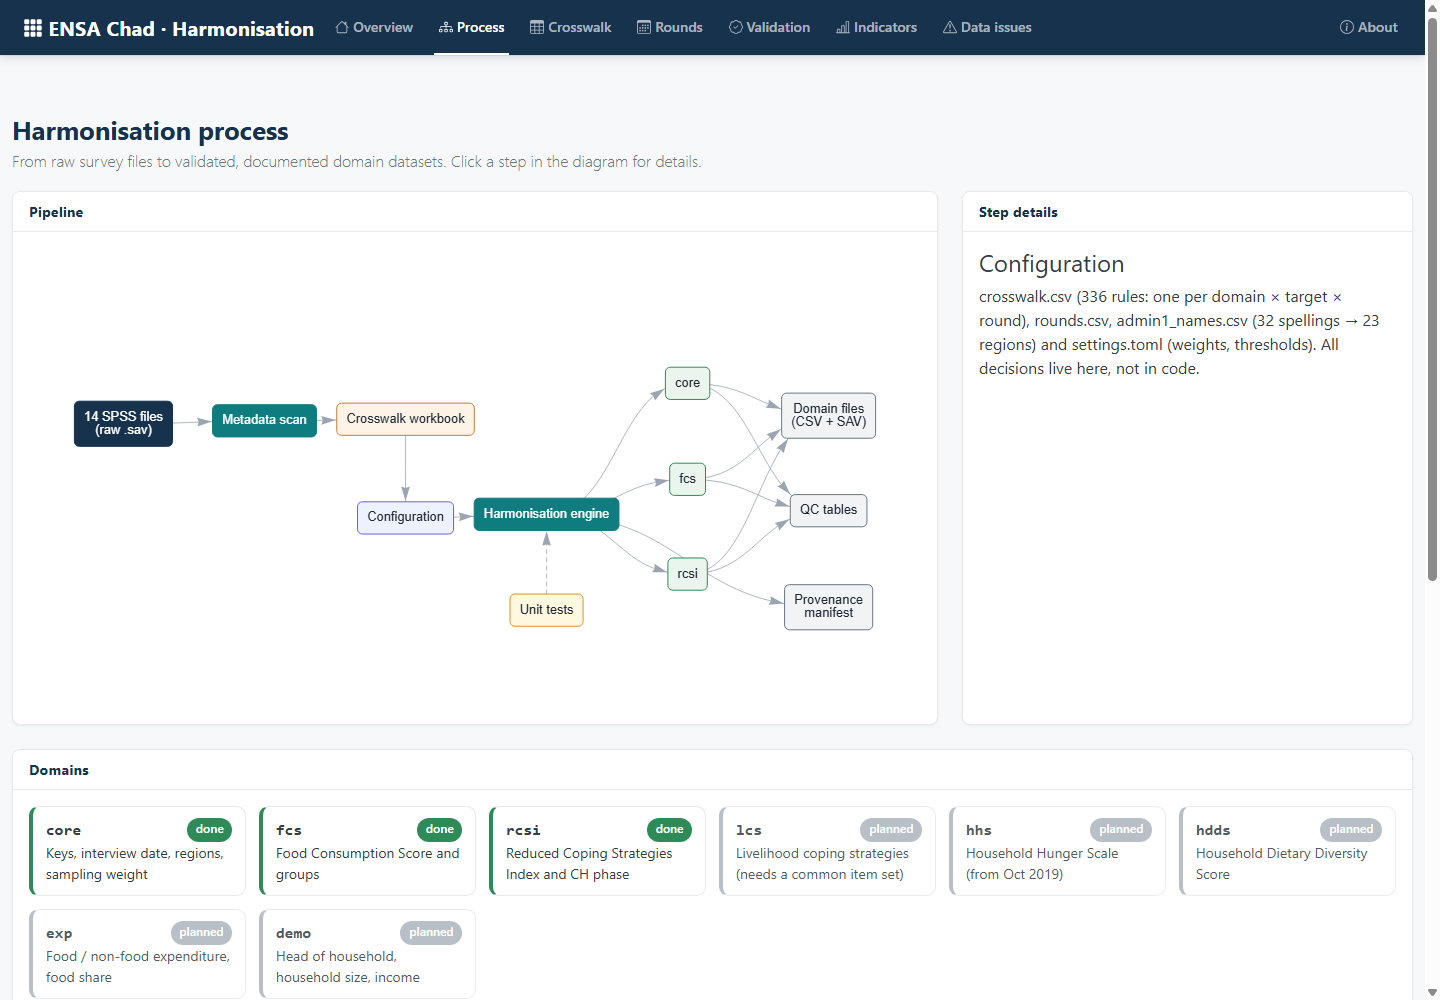
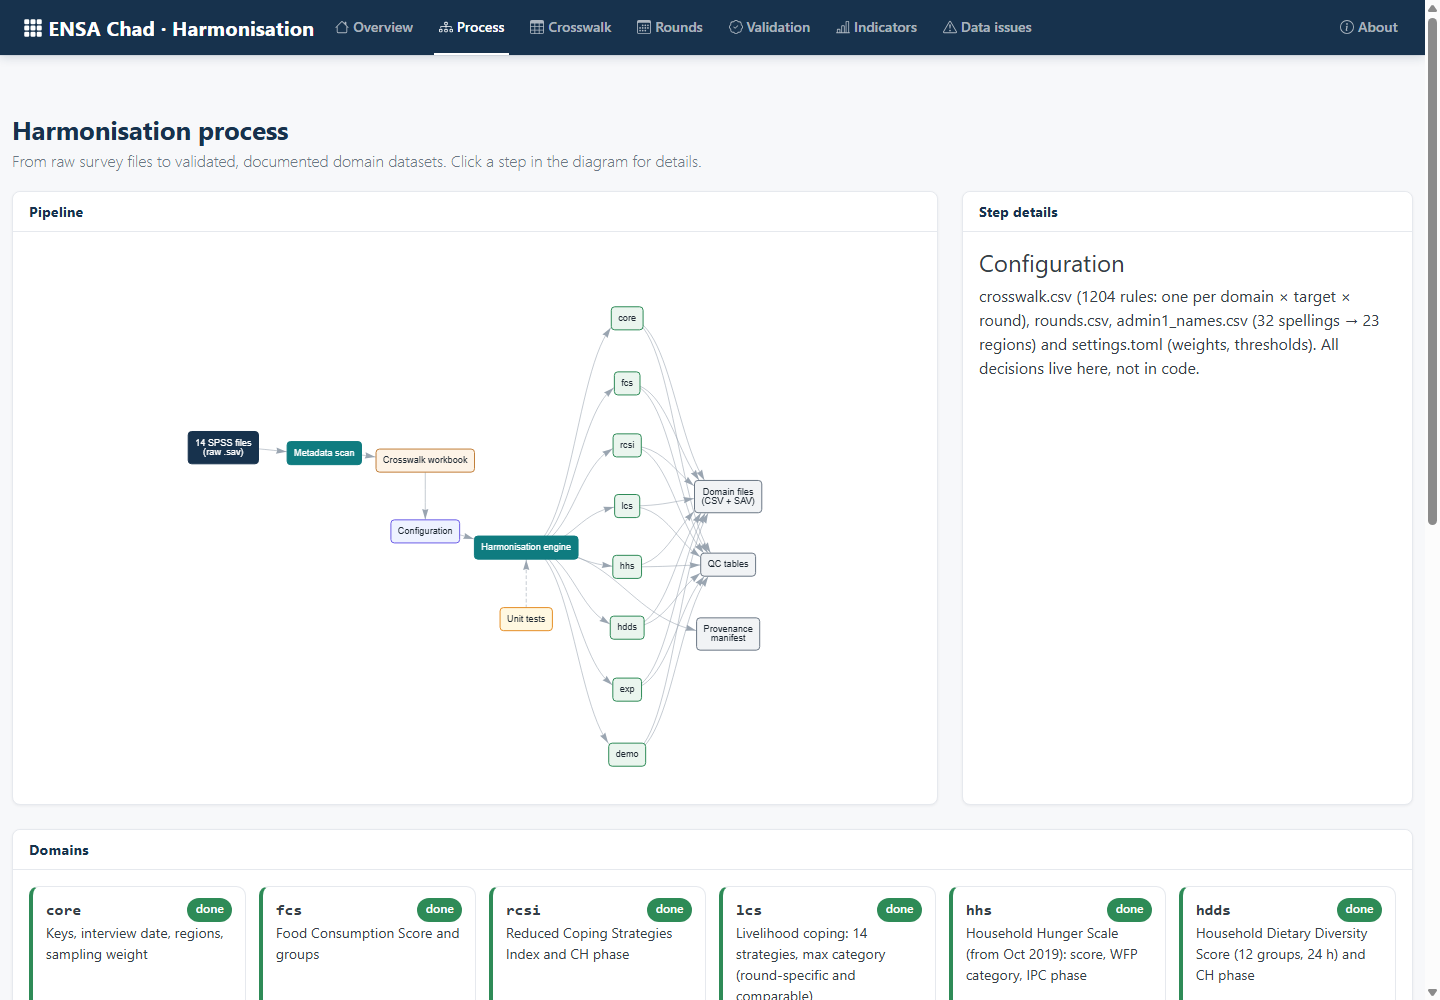
App: show all 8 domains and refresh README screenshots
- Process: pipeline diagram has one node per domain (8), with step details
- Validation: agreement heatmap for FCS, rCSI, LCS, HHS, HDDS and food share; QC table adds the other domains
- Overview: domains box no longer says 'more planned'; unit-test count 29
- Screenshots retaken (overview, process, rounds, validation)

diff --git a/README.md b/README.md
@@ -167,7 +167,7 @@ The report has one chapter per domain (sample, household profile, FCS, HDDS, rCS
 |---|---|
 | ![Pipeline diagram with step details](docs/screenshots/02-process.png) **Process**: click a step to see what it does | ![Coverage matrix of 83 concepts across 14 rounds](docs/screenshots/03-crosswalk-matrix.png) **Crosswalk**: where each concept lives in each round |
 | ![Crosswalk table laid out as in the Excel workbook](docs/screenshots/04-crosswalk-table.png) **Crosswalk table**: source variable per round, coloured by coverage | ![Concept profile showing the LCS slot swap](docs/screenshots/05-concept-profile.png) **Concept profile**: here, the LCS slot swap between Feb and Oct 2021 |
-| ![Fieldwork calendar and round inventory](docs/screenshots/06-rounds.png) **Rounds**: fieldwork windows, weights, checks | ![Validation against the original analysts' scores](docs/screenshots/07-validation.png) **Validation**: agreement and the reversed FCS coding |
+| ![Fieldwork calendar and round inventory](docs/screenshots/06-rounds.png) **Rounds**: fieldwork windows, weights, checks | ![Validation against the original analysts' variables](docs/screenshots/07-validation.png) **Validation**: agreement with the analysts for 6 indicators, and the reversed FCS coding |
 | ![Data issues ranked by impact](docs/screenshots/08-data-issues.png) **Data issues**: what was found and how it is handled | |
 
 The Indicators page is not shown here: its regional estimates are preliminary and are shared only with the data owners' agreement.
